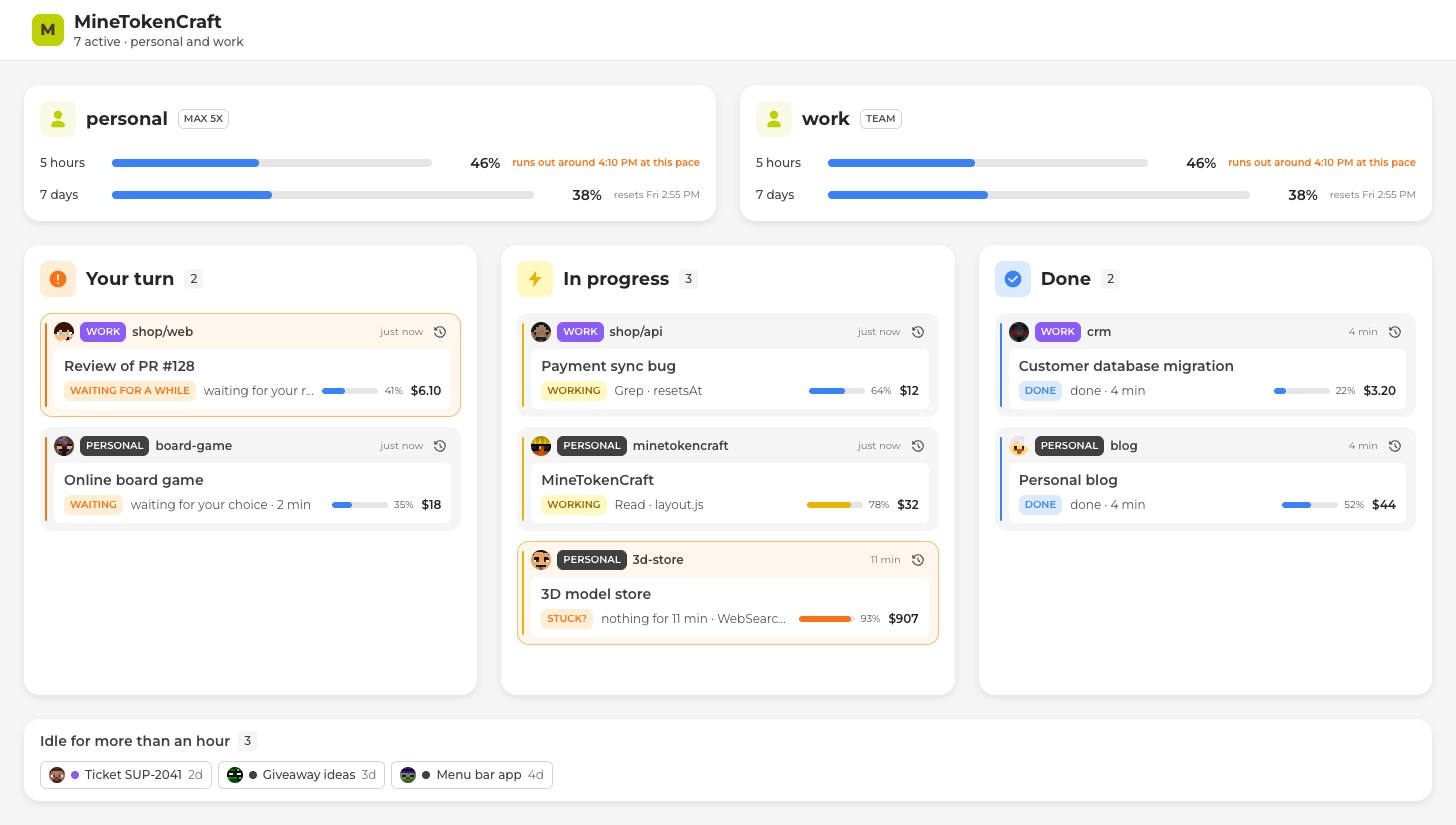
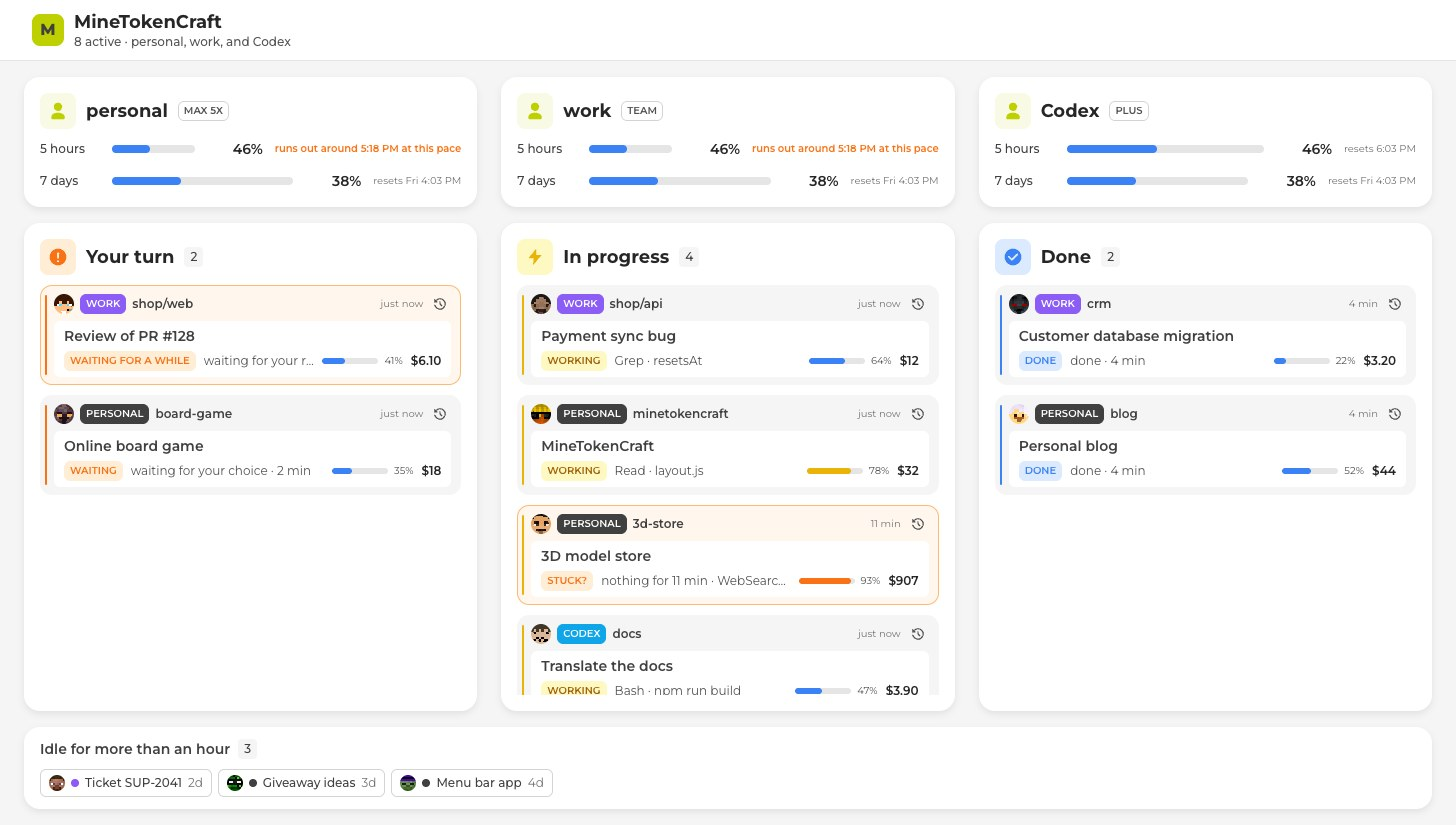
chore: release 1.2.0
New screenshots and tour, with the usage screen, the rainbow and Codex.

diff --git a/CHANGELOG.md b/CHANGELOG.md
@@ -4,6 +4,8 @@ All notable changes to MineTokenCraft are listed here. The format follows [Keep 
 
 ## [Unreleased]
 
+## [1.2.0] - 2026-10-20
+
 ### Added
 
 - Context and cost of every session without the status line. The context is the prompt of the last request over the model's window (200k, or 1M for `[1m]` models). The cost prices each request at list prices with the real cache split (1-hour writes at twice the input price, 5-minute writes at 1.25 times), counts each request once even when a resumed session copies it, includes sub-agents, and adds up Claude Code's own ledger over every run of a resumed session.
@@ -67,6 +69,7 @@ All notable changes to MineTokenCraft are listed here. The format follows [Keep 
 - `minetokencraft` command: open, demo, stop, serve, autostart, assets, statusline.
 - A live demo on GitHub Pages.
 
-[Unreleased]: https://github.com/KillianHzr/minetokencraft/compare/v1.1.0...HEAD
+[Unreleased]: https://github.com/KillianHzr/minetokencraft/compare/v1.2.0...HEAD
+[1.2.0]: https://github.com/KillianHzr/minetokencraft/compare/v1.1.0...v1.2.0
 [1.1.0]: https://github.com/KillianHzr/minetokencraft/compare/v1.0.0...v1.1.0
 [1.0.0]: https://github.com/KillianHzr/minetokencraft/releases/tag/v1.0.0

diff --git a/README.fr.md b/README.fr.md
@@ -75,6 +75,12 @@ Qui travaille, qui t'attend, qui a fini, à quel point chaque contexte est rempl
     <td align="center"><sub>L'hiver, sous la neige</sub></td>
   </tr>
   <tr>
+    <td colspan="2"><img src="docs/screenshots/usage.jpg" alt="L'écran de consommation : le coût des 7 derniers jours, par compte, en barres empilées"></td>
+  </tr>
+  <tr>
+    <td colspan="2" align="center"><sub>La consommation des 7 derniers jours, par compte</sub></td>
+  </tr>
+  <tr>
     <td colspan="2"><img src="docs/screenshots/simple.jpg" alt="Mode simple : un tableau de bord clair avec les quotas et trois colonnes"></td>
   </tr>
   <tr>

diff --git a/README.md b/README.md
@@ -75,6 +75,12 @@ English · [Français](README.fr.md)
     <td align="center"><sub>Winter, with snow falling</sub></td>
   </tr>
   <tr>
+    <td colspan="2"><img src="docs/screenshots/usage.jpg" alt="The usage screen: cost over the last 7 days, per account, as stacked bars"></td>
+  </tr>
+  <tr>
+    <td colspan="2" align="center"><sub>Usage over the last 7 days, per account</sub></td>
+  </tr>
+  <tr>
     <td colspan="2"><img src="docs/screenshots/simple.jpg" alt="Simple mode: a light dashboard with quotas and three columns"></td>
   </tr>
   <tr>
